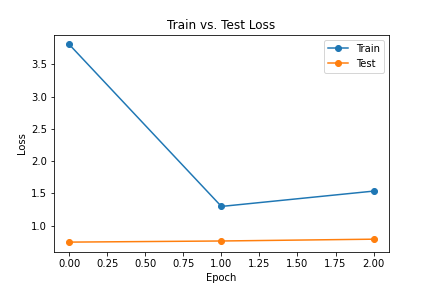
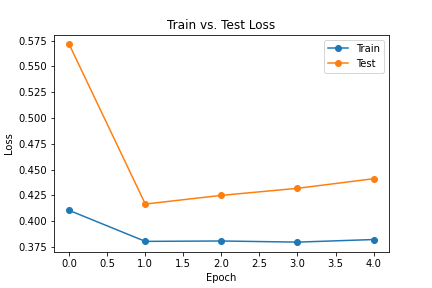
3 networks testet. simplest is best

diff --git a/Project 2/code/nn_pytorch.py b/Project 2/code/nn_pytorch.py
@@ -7,21 +7,22 @@ date: 2022-11-08
 
 #-----------Hyperparameters-----------
 use_normalize = False
-pic_folder_path = 'S:/studium/data_for_nns/mkfold/fold1'
-learning_rate = 0.03
-batch_size = 20
-num_epochs = 3
+pic_folder_path = 'S:/studium/data_for_nns/mkfold/fold2'
+learning_rate = 0.0005
+learning_rate = 0.005
+batch_size = 32
+num_epochs = 5
 num_classes = 2
-num_channels = 3
 load_trained_model = False
 pretrained = False
-reset_classifier_with_custom_layers = False
+reset_classifier_with_custom_layers = True
 train_network = True
 evaluate_network = True
-model_type = 'resnet18'
-model_type = 'vgg16'
+#model_type = 'resnext50_32x4d'
+#model_type = 'resnet18'
+model_type = 'wide_resnet50_2'
 output_model_path = './../models/'
-output_model_name = 'model_1'
+output_model_name = 'model_wide_resnet'
 #----------------------------------
 
 
@@ -43,8 +44,6 @@ import time, random
 from tqdm import tqdm
 from mo_nn_helpers import get_mean_and_std
 from mo_nn_helpers import *
-#from "./../../Project 1/code/exploratory_analysis_and_classifiers.py" import *
-# TODO: __initi__.py file to reuse code from project 1
 
 def get_device():
     if torch.cuda.is_available():
@@ -155,6 +154,11 @@ def get_model(model_type, load_trained_model, reset_classifier_with_custom_layer
                                     nn.Linear(256, 100),
                                     nn.ReLU(inplace=True),
                                     nn.Linear(100, num_classes))
+        model.classifier = nn.Sequential(nn.Linear(model.classifier.in_features, 256),
+                                    nn.Dropout(p=0.4, inplace=True),
+                                    nn.Linear(256, 100),
+                                    nn.ReLU(inplace=True),
+                                    nn.Linear(100, num_classes))
     model = model.to(device)
     print("Done.")
     return model
@@ -162,10 +166,12 @@ model = get_model(model_type=model_type, load_trained_model=False, reset_classif
 
 criterion = nn.CrossEntropyLoss()
 # SGD optimizer with momentum could lead faster to good results, but Adam is more stable
-optimizer = optim.Adamax(model.parameters(), lr=learning_rate)
+#optimizer = optim.Adamax(model.parameters(), lr=learning_rate)
+optimizer = optim.SGD(model.parameters(), lr=learning_rate, momentum=0.9)
 exp_lr_scheduler = lr_scheduler.StepLR(optimizer, step_size=5, gamma=0.1)
 
-train_nn(model, dataloaders, dataset_sizes, criterion, optimizer, exp_lr_scheduler, output_model_path, output_model_name, num_epochs=num_epochs)
+if train_network:
+    train_nn(model, dataloaders, dataset_sizes, criterion, optimizer, exp_lr_scheduler, output_model_path, output_model_name, num_epochs=num_epochs)
 
 
 # TODO: Evaluation of 3 different networks. Use Sigmoid and max to get the probabilities for each of the binary classes.
@@ -179,7 +185,7 @@ def evaluate_model(model, dataset_sizes, criterion, class_names, image_datasets,
     
     dataloaders = {x: torch.utils.data.DataLoader(image_datasets[x], batch_size=1,
                     shuffle=False, num_workers=0)
-                    for x in ["train", "test"]}
+                    for x in [dataset]}
 
     num_samples = 0
     num_correct = 0
@@ -197,9 +203,10 @@ def evaluate_model(model, dataset_sizes, criterion, class_names, image_datasets,
             inputs = inputs.to(device)
             labels = labels.to(device)
             outputs = model(inputs)
-            scores = torch.sigmoid(outputs)
-            scores = torch.max(scores, 1)
-            pred_scores, pred_labels = scores
+            #scores = torch.sigmoid(outputs)
+            scores = torch.nn.Softmax(dim=1)(outputs)
+
+            pred_scores, pred_labels = torch.max(scores, 1)
 
             num_correct += torch.sum(pred_labels == labels.data)
             num_samples += pred_labels.size(0)
@@ -208,9 +215,9 @@ def evaluate_model(model, dataset_sizes, criterion, class_names, image_datasets,
             pred_scores_list.append(pred_scores.cpu().detach().numpy()[0])
             file_names_list.append(image_datasets[dataset].imgs[i][0].split("/")[-1])
 
-    accuracy = num_correct / num_samples
+    accuracy = 100 * float(num_correct) / num_samples
     #loss = criterion(outputs, labels)
-    print("Accuracy: {:.2f} %".format(accuracy * 100))
+    print("Accuracy: {:.2f} %".format(accuracy))
     #print("Loss: {:.2f}".format(loss))
 
     print(classification_report(true_labels_list, pred_labels_list))
@@ -233,7 +240,8 @@ def evaluate_model(model, dataset_sizes, criterion, class_names, image_datasets,
     print("Done.")
     return df
 
-df = evaluate_model(model, dataset_sizes, criterion, class_names, image_datasets, device="cuda", dataset = "test")
+if evaluate_network:
+    df = evaluate_model(model, dataset_sizes, criterion, class_names, image_datasets, device="cuda", dataset = "test")
 
 # TODO: Plot the results. (Also with a confusion matrix as heatmap?)
 

diff --git a/Project 2/code/delete_images.py b/Project 2/code/delete_images.py
@@ -1,0 +1,23 @@
+# -*- coding: utf-8 -*-
+import os
+import shutil
+
+# delete folders ending in specified strings
+def delete_folders(path, delete_list):
+    subdirs = [x[0] for x in os.walk(path)]
+    for folder in subdirs:
+        if os.path.basename(os.path.normpath(folder)) in delete_list:
+            print('deleting folder: ' + os.path.basename(folder))
+            # try with print only first ->
+            # should give you e.g. 'deleting folder: 40X'
+            
+            # then uncomment following line and run again
+            #shutil.rmtree(folder)
+
+# ------------------ main ------------------
+# main function
+if __name__ == '__main__':
+    # path to parent folder BreaKHis_v1
+    data_path = r'C:\Users\flo17\Documents\FocusAreas\resources\BreaKHis_v1'
+    delete_folders(data_path, ["40X", "100X", "400X"])
+    
